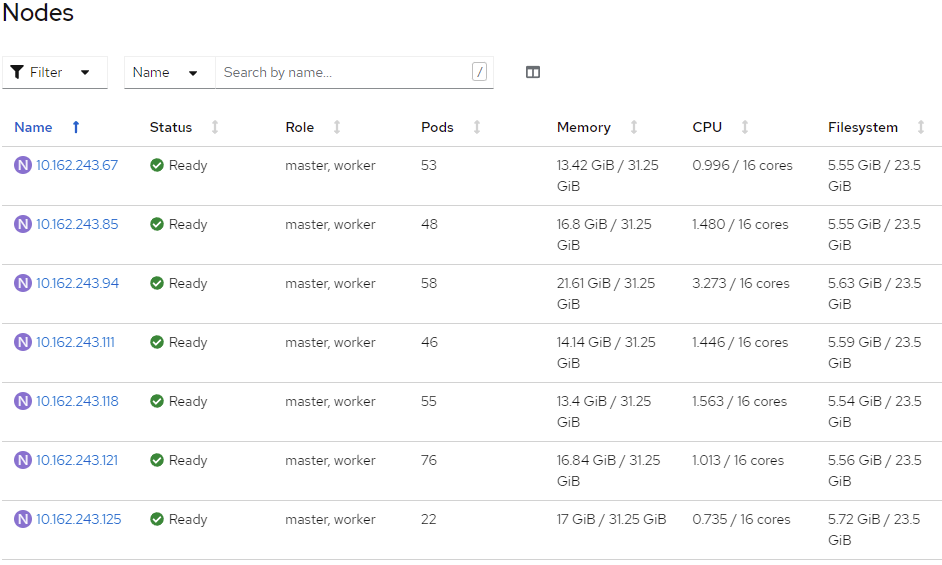
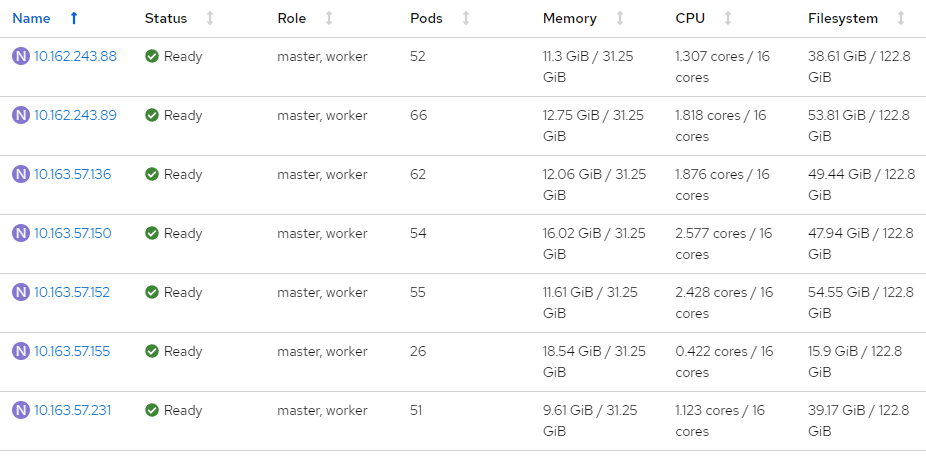
Resolve todos

diff --git a/README.md b/README.md
@@ -1,8 +1,8 @@
 # Installation of Cloud Pak for Business Automation on containers - One-shot enterprise deployment 🔫
 
-Goal of this repository is to almost automagically install CP4BA Enterprise patterns and also IAF components  with all kinds of prerequisites and extras on OpenShift.
+Goal of this repository is to almost automagically install CP4BA Enterprise patterns and also IAF components with all kinds of prerequisites and extras on OpenShift.
 
-Last installation was performed on TODO 2021-11-12 with CP4BA version 21.0.3 (also called 21.0.3 or 21.3.0)
+Last installation was performed on 2022-01-11 with CP4BA version 21.0.3 (also called 21.0.3 or 21.3.0)
 
 Deploying CP4BA is based on official documentation which is located at https://www.ibm.com/docs/en/cloud-paks/cp-biz-automation/21.0.3?topic=overview-what-is-cloud-pak-business-automation.
 
@@ -51,7 +51,9 @@ Result of this Enterprise deployment is not fully supported:
 What is not included:
 - IER - missing IER object stores and configuration.
 - ICCs - not covered.
-- Caution! FNCM External share - login issues, do not configure, otherwise other capabilities will break as well - waiting for fixes here.
+- Caution! FNCM External share - login issues, do not configure, otherwise other capabilities will break as well - waiting for fixes.
+- Caution! RPA currently works only with one user cpadmin due to identity issue.
+- Caution! Process MIning currently doesn't work - IAF operator issues, BAI integration issues - waiting for fixes.
 - Workflow Server and Workstream Services - this is a dev deployment. BAW Authoring and (BAW + IAWS) are mutually exclusive in single project.
 
 ## What is in the package 📦
@@ -127,22 +129,22 @@ Multiple command line tools are installed inside a container to make the install
 
 ## Environments used for installation 💻
 
-With proper sizing of the cluster and provided RWX Storage Class, this guide should be working on any OpenShift, however it was executed on the following once.
+With proper sizing of the cluster and provided RWX Storage Class, this guide should be working on any OpenShift 4.8, however it was executed on the following once.
 
 - ROKS - RedHat OpenShift Kubernetes Service allowing to run managed Red Hat OpenShift on IBM Cloud  
-OpenShift 4.7.x and 4.8.x - 7 Worker Nodes (16 CPU, 32GB Memory) - ibmc-file-gold-gid Storage Class  
+OpenShift 4.8.x - 7 Worker Nodes (16 CPU, 32GB Memory) - ibmc-file-gold-gid Storage Class  
 Successfully installed
 
 - ARO - Azure Red Hat OpenShift allowing to run managed Red Hat OpenShift on Azure  
-OpenShift 4.7.x - 7 Worker Nodes (16 CPU, 32GB Memory) - ODF (OCS) with ocs-storagecluster-cephfs Strorage Class  
+OpenShift 4.8.x - 7 Worker Nodes (16 CPU, 32GB Memory) - ODF (OCS) with ocs-storagecluster-cephfs Strorage Class  
 Successfully installed
 
 - Traditional OpenShift cluster created from scratch on top of virtualization platform  
-OpenShift 4.7.x and 4.8.x on vms - 7 Worker Nodes (16 CPU, 32GB Memory) - Managed NFS Storage Class  
+OpenShift 4.8.x on vms - 7 Worker Nodes (16 CPU, 32GB Memory) - Managed NFS Storage Class  
 Successfully installed
 
 - ROSA - Red Hat OpenShift Service on AWS  
-OpenShift 4.7.x and 4.8.x - 7 Worker Nodes (16 CPU, 32GB Memory) - ODF (OCS) with ocs-storagecluster-cephfs Strorage Class  
+OpenShift 4.8.x - 7 Worker Nodes (16 CPU, 32GB Memory) - ODF (OCS) with ocs-storagecluster-cephfs Strorage Class  
 Successfully installed **but has issues** with passthrough Routes malfunction making it hard to access the platform.
 
 The following picture shows real idle utilization of Nodes with deployed platform on above mentioned ROKS as an example.
@@ -152,35 +154,35 @@ The following picture shows real idle utilization of Nodes with deployed platfor
 The following output shows CPU and Memory requests and limits on Nodes on above mentioned ROKS as an example.
 
 ```text
-node/10.162.243.118
+node/10.162.243.89
   Resource           Requests          Limits
-  cpu                11899m (74%)      54085m (340%)
-  memory             21465690Ki (74%)  56264992Ki (194%)
+  cpu                9346m (58%)       24270m (152%)
+  memory             19965459Ki (68%)  41767200Ki (144%)
 
-node/10.162.243.121
+node/10.163.57.136
   Resource           Requests          Limits
-  cpu                11144m (70%)      55080m (346%)
-  memory             23100946Ki (79%)  80256288Ki (276%)
+  cpu                10234m (64%)      22850m (143%)
+  memory             18918931Ki (65%)  33315104Ki (114%)
 
-node/10.162.243.125
+node/10.163.57.150
   Resource           Requests          Limits
-  cpu                5182m (32%)       5700m (35%)
-  memory             27267602Ki (94%)  26988832Ki (93%)
+  cpu                9096m (57%)       18400m (115%)
+  memory             18354707Ki (63%)  33843488Ki (116%)
 
-node/10.162.243.67
+node/10.163.57.152
   Resource           Requests          Limits
-  cpu                11860m (74%)      40250m (253%)
-  memory             22722066Ki (78%)  60561696Ki (208%)
+  cpu                10078m (63%)      23040m (145%)
+  memory             20524563Ki (70%)  44028192Ki (151%)
 
-node/10.162.243.85
+node/10.163.57.155
   Resource           Requests          Limits
-  cpu                11543m (72%)      40980m (258%)
-  memory             21248530Ki (73%)  56277280Ki (194%)
+  cpu                4948m (31%)       4600m (28%)
+  memory             26953235Ki (93%)  25973024Ki (89%)
 
-node/10.162.243.94
+node/10.163.57.231
   Resource           Requests          Limits
-  cpu                11301m (71%)      95040m (598%)
-  memory             21502482Ki (74%)  114686240Ki (395%)
+  cpu                11600m (73%)      18500m (116%)
+  memory             22577683Ki (77%)  28880160Ki (99%)  
 ```
 
 ## Pre-requisites ⬅
@@ -304,8 +306,9 @@ data:
 
     # Always review these parameters for changes
 
+    ## Do NOT enable now!
     ## Set to false if you don't want to install (or remove) Process Mining
-    PM_ENABLED=true
+    PM_ENABLED=false
 
     ## Set to false if you don't want to install (or remove) Asset Repo
     ASSET_REPO_ENABLED=true

diff --git a/scripts/usage.md b/scripts/usage.md
@@ -244,7 +244,7 @@ You may get 400 not authorized error when accessing endpoints. In this case clea
 - Administration: https://cpd-{{CP4BA_PROJECT_NAME}}.{{OCP_APPS_ENDPOINT}}/ads/admin-platform  
 - Runtime OAS: https://cpd-{{CP4BA_PROJECT_NAME}}.{{OCP_APPS_ENDPOINT}}/ads/runtime/api/swagger-ui  
 - Runtime OAS JSON file: https://cpd-{{CP4BA_PROJECT_NAME}}.{{OCP_APPS_ENDPOINT}}/ads/runtime/api/v1/openapi.json  
-- TODO Runtime service invocation template: https://cpd-{{CP4BA_PROJECT_NAME}}.{{OCP_APPS_ENDPOINT}}/ads/runtime/api/v1/decision/{decisionId}/operations/{operation} (using enApiKey Authentication with Zen token (https://www.ibm.com/docs/en/cloud-paks/cp-biz-automation/21.0.3?topic=administering-authorizing-http-requests-by-using-zen-api-key))  
+- Runtime service invocation template: https://cpd-{{CP4BA_PROJECT_NAME}}.{{OCP_APPS_ENDPOINT}}/ads/runtime/api/v1/deploymentSpaces/embedded/decisions/{decisionId}/operations/{operation}/execute (using ZenApiKey Authentication with Zen token (https://www.ibm.com/docs/en/cloud-paks/cp-biz-automation/21.0.3?topic=administering-authorizing-http-requests-by-using-zen-api-key))  
 
 ####  Credentials
 
